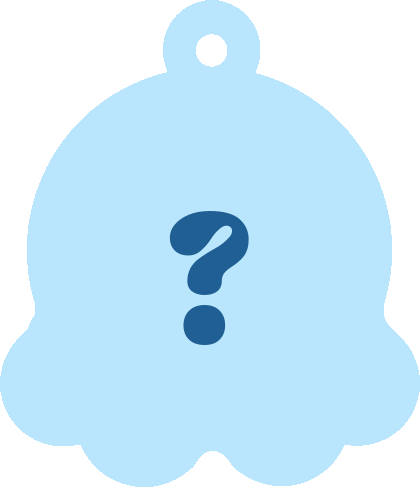
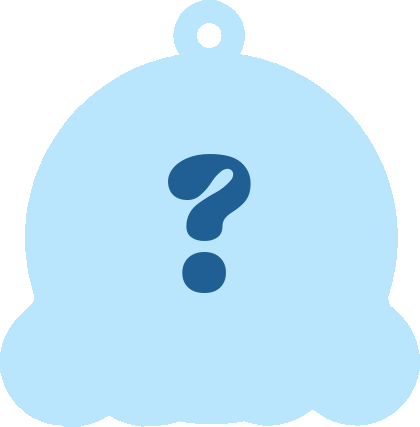
Silhouettes from the real STL (wrapper + Blender toy script)
Claude-Session: https://claude.ai/code/session_01AQMCNjGQ1RjZg5f4v5YFio

diff --git a/pulpos-mystery-box/diseno/envoltorio-plano.html b/pulpos-mystery-box/diseno/envoltorio-plano.html
@@ -14,4 +14,4 @@ body { font-family: Inter, sans-serif; background: #fff; }
 .foldv { border-left: .3mm dashed #8a8a8a; }
 .bubble { position: absolute; border-radius: 50%; border: .5mm solid rgba(255,255,255,.9); background: rgba(255,255,255,.35); }
 .pill { background: #BAE6FD; color: #1F5F93; -webkit-text-stroke: .5mm #FFFFFF; paint-order: stroke fill; font-family: var(--f); font-size: 3.6mm; padding: 1mm 3mm; border-radius: 3mm; }
-</style><div class="a" style="left:31mm;top:20mm;width:235mm;height:170mm;background:#FEF3C9"></div><div class="a" style="left:251mm;top:65mm;width:15mm;height:80mm;background:repeating-linear-gradient(135deg,#e7f6ff 0 2mm,#d3eefd 2mm 4mm)"></div><div class="a" style="left:31mm;top:65mm;width:110mm;height:80mm"><div class="a pill" style="left:4mm;top:71mm">SÉRIE 1</div><div class="a" style="left:0;top:2mm;width:110mm"><div class="title" style="font-size:21mm"><span style="color:#CD575B">Octo</span><span style="color:#8DD0F7">Mood</span></div></div><div class="a panel" style="left:30mm;top:27mm;width:50mm;height:50mm"><img src="pulpos/morado.png" alt="morado"></div></div><div class="a" style="left:141mm;top:65mm;width:110mm;height:80mm"><div class="a small" style="left:0;top:3mm;width:110mm;font-size:5.6mm">QUEL EST TON MOOD ?</div><div class="a panel mini" style="left:3.0mm;top:14mm;width:20mm;height:20mm"><img src="pulpos/rojo.png" alt="rojo"></div><div class="a panel mini" style="left:23.5mm;top:14mm;width:20mm;height:20mm"><img src="pulpos/sil_azul.png" alt="?"></div><div class="a panel mini" style="left:44.0mm;top:14mm;width:20mm;height:20mm"><img src="pulpos/sil_azul.png" alt="?"></div><div class="a panel mini" style="left:64.5mm;top:14mm;width:20mm;height:20mm"><img src="pulpos/sil_azul.png" alt="?"></div><div class="a panel mini" style="left:85.0mm;top:14mm;width:20mm;height:20mm"><img src="pulpos/sil_negra.png" alt="secreto"></div><div class="a panel" style="left:30mm;top:36mm;width:0;height:0"></div><div class="a small" style="left:6mm;top:40mm;width:98mm;font-size:4mm">1 PORTE-CLÉS MYSTÈRE PAR BOÎTE</div><div class="a small" style="left:6mm;top:49mm;width:98mm;font-size:3.6mm">5 COULEURS + 1 SECRET · SECRET : 1 CHANCE SUR 10</div><div class="a small" style="left:6mm;top:62mm;width:98mm;font-size:3.6mm">RenardLab3D · Metz</div><div class="a small" style="left:6mm;top:68mm;width:98mm;font-size:3.2mm">@renardlab3d · impression 3D · ~5 cm</div></div><div class="a fold" style="left:25mm;top:65mm;width:247mm"></div><div class="a fold" style="left:25mm;top:145mm;width:247mm"></div><div class="a foldv" style="left:141mm;top:65mm;height:80mm"></div><div class="a foldv" style="left:251mm;top:65mm;height:80mm"></div><div class="a note" style="left:31mm;top:12mm">Boceto A4 horizontal · envoltorio 235 × 170 mm · tubo de ≈ 7 cm de diámetro · - - - dobleces</div><div class="a note" style="left:251mm;top:147mm">pestaña de pegamento</div><div class="a note" style="left:33mm;top:192mm">Solapa superior 45 mm · cuerpo 80 mm · solapa inferior 45 mm · siluetas «?» = pulpos aún no revelados</div></div>
+</style><div class="a" style="left:31mm;top:20mm;width:235mm;height:170mm;background:#FEF3C9"></div><div class="a" style="left:251mm;top:65mm;width:15mm;height:80mm;background:repeating-linear-gradient(135deg,#e7f6ff 0 2mm,#d3eefd 2mm 4mm)"></div><div class="a" style="left:31mm;top:65mm;width:110mm;height:80mm"><div class="a pill" style="left:4mm;top:71mm">SÉRIE 1</div><div class="a" style="left:0;top:2mm;width:110mm"><div class="title" style="font-size:21mm"><span style="color:#CD575B">Octo</span><span style="color:#8DD0F7">Mood</span></div></div><div class="a panel" style="left:30mm;top:27mm;width:50mm;height:50mm"><img src="pulpos/morado.png" alt="morado"></div></div><div class="a" style="left:141mm;top:65mm;width:110mm;height:80mm"><div class="a small" style="left:0;top:3mm;width:110mm;font-size:5.6mm">QUEL EST TON MOOD ?</div><div class="a panel mini" style="left:3.0mm;top:14mm;width:20mm;height:20mm"><img src="pulpos/rojo.png" alt="rojo"></div><div class="a panel mini" style="left:23.5mm;top:14mm;width:20mm;height:20mm"><img src="pulpos/sil_azul.png" alt="?" style="transform:scale(.8);transform-origin:50% 90%"></div><div class="a panel mini" style="left:44.0mm;top:14mm;width:20mm;height:20mm"><img src="pulpos/sil_azul.png" alt="?" style="transform:scale(.8);transform-origin:50% 90%"></div><div class="a panel mini" style="left:64.5mm;top:14mm;width:20mm;height:20mm"><img src="pulpos/sil_azul.png" alt="?" style="transform:scale(.8);transform-origin:50% 90%"></div><div class="a panel mini" style="left:85.0mm;top:14mm;width:20mm;height:20mm"><img src="pulpos/sil_negra.png" alt="secreto" style="transform:scale(.8);transform-origin:50% 90%"></div><div class="a panel" style="left:30mm;top:36mm;width:0;height:0"></div><div class="a small" style="left:6mm;top:40mm;width:98mm;font-size:4mm">1 PORTE-CLÉS MYSTÈRE PAR BOÎTE</div><div class="a small" style="left:6mm;top:49mm;width:98mm;font-size:3.6mm">5 COULEURS + 1 SECRET · SECRET : 1 CHANCE SUR 10</div><div class="a small" style="left:6mm;top:62mm;width:98mm;font-size:3.6mm">RenardLab3D · Metz</div><div class="a small" style="left:6mm;top:68mm;width:98mm;font-size:3.2mm">@renardlab3d · impression 3D · ~5 cm</div></div><div class="a fold" style="left:25mm;top:65mm;width:247mm"></div><div class="a fold" style="left:25mm;top:145mm;width:247mm"></div><div class="a foldv" style="left:141mm;top:65mm;height:80mm"></div><div class="a foldv" style="left:251mm;top:65mm;height:80mm"></div><div class="a note" style="left:31mm;top:12mm">Boceto A4 horizontal · envoltorio 235 × 170 mm · tubo de ≈ 7 cm de diámetro · - - - dobleces</div><div class="a note" style="left:251mm;top:147mm">pestaña de pegamento</div><div class="a note" style="left:33mm;top:192mm">Solapa superior 45 mm · cuerpo 80 mm · solapa inferior 45 mm · siluetas «?» = pulpos aún no revelados</div></div>

diff --git a/reel-3d/tools/escena_playa.py b/reel-3d/tools/escena_playa.py
@@ -300,35 +300,34 @@ for o in bpy.data.objects:
         q = world_to_camera_view(scene, cam, o.location); print('estrella', o.name, tuple(round(v, 2) for v in o.location), 'px', round(q.x * W), round((1 - q.y) * H) - PAN)
 
 # ---------------------------------------------------------------- siluetas 3D (misma forma que el envoltorio)
-# ---- pulpo de revolución hecho de «pelotas» que se funden (metaballs), como el modelo original
-# coordenadas en píxeles del recorte del render real (ancho 1216, alto 1409): (x, z desde abajo, profundidad, radio de superficie)
-_MBW, _MBH = 1304.0, 1409.0
-_R8, _r8 = 516.0, 178.0
-_BALLS = [(652, 687, 0, 530)]                                   # cabeza (x, z, profundidad, radio)
-for _k in range(8):                                               # 8 pelotas-tentáculo en anillo bajo la cabeza
-    _a = math.radians(22.5 + 45 * _k)
-    _BALLS.append((652 + _R8 * math.cos(_a), _r8, -_R8 * math.sin(_a), _r8))
+# ---- pulpo real (STL de Avril): cuerpo + anilla en color plano, con «?» sobre la cara
+bpy.ops.wm.stl_import(filepath=os.path.join(os.path.dirname(os.path.abspath(__file__)), '..', 'assets', 'modelo', 'OctoSmoot.stl'))
+_raw = bpy.context.selected_objects[0]; bpy.context.view_layer.objects.active = _raw
+bpy.ops.object.mode_set(mode='EDIT'); bpy.ops.mesh.separate(type='LOOSE'); bpy.ops.object.mode_set(mode='OBJECT')
+_TPL = []
+for _o in [o for o in bpy.data.objects if o.type == 'MESH' and o.name.startswith('OctoSmoot')]:
+    _v = np.array([list(p_.co) for p_ in _o.data.vertices]); _c = (_v.min(0) + _v.max(0)) / 2
+    if len(_v) > 5000 or _c[2] > 2.0:                    # cuerpo y anilla (los ojos y la boca no van en la silueta)
+        for p_ in _o.data.polygons: p_.use_smooth = True
+        _TPL.append(_o.data)
+    _o.hide_render = True; _o.hide_viewport = True
+_STL_W, _STL_ZMIN, _STL_ZMAX = 2.64, -0.084, 2.6
 def silueta(name, x_px, base_final_y, w_px, color, qcolor):
-    x, d = place(x_px, base_final_y); Wm = px_to_m(w_px, d); s = Wm / _MBW
+    x, d = place(x_px, base_final_y); Wm = px_to_m(w_px, d); K = Wm / _STL_W
     gz = ground_h(x, d)
-    mb = bpy.data.metaballs.new(name + '_mb'); mb.threshold = 0.6; mb.resolution = Wm / 140; mb.render_resolution = Wm / 140
-    for bx, bz, by, br in _BALLS:
-        e = mb.elements.new(); e.co = ((bx - _MBW / 2) * s, by * s, bz * s); e.radius = br * s / 0.574 * 0.93; e.stiffness = 2.0
-    ob = bpy.data.objects.new(name, mb); scene.collection.objects.link(ob); ob.location = (x, d, gz)
-    ob.data.materials.append(toy(name + '_m', color))
-    # anilla (toro) arriba
-    bpy.ops.mesh.primitive_torus_add(major_radius=93 * s, minor_radius=46 * s, major_segments=64, minor_segments=32, location=(x, d, gz + 1303 * s), rotation=(math.radians(90), 0, 0))
-    ring = bpy.context.object; ring.name = name + '_anilla'; ring.data.materials.append(toy(name + '_a', color))
-    for p_ in ring.data.polygons: p_.use_smooth = True
-    ring.parent = ob; ring.matrix_parent_inverse = ob.matrix_world.inverted()
+    root = bpy.data.objects.new(name, None); scene.collection.objects.link(root)
+    root.location = (x, d, gz - _STL_ZMIN * K); root.rotation_euler = (0, 0, math.pi); root.scale = (K, K, K)   # de cara a la cámara
+    mat = toy(name + '_m', color); parts = [root]
+    for k, me in enumerate(_TPL):
+        o = bpy.data.objects.new(f'{name}_{k}', me); scene.collection.objects.link(o); o.parent = root; o.data.materials.clear(); o.data.materials.append(mat); parts.append(o)
     cu = bpy.data.curves.new(name + '_q', 'FONT'); cu.body = '?'; cu.size = 0.62 * Wm; cu.extrude = 0.02 * Wm; cu.bevel_depth = 0.006 * Wm
     cu.align_x = 'CENTER'; cu.align_y = 'CENTER'
     try: cu.font = bpy.data.fonts.load(FONT)
     except Exception as ex: print('fuente:', ex)
     q = bpy.data.objects.new(name + '_q', cu); scene.collection.objects.link(q)
-    q.rotation_euler = (math.radians(90), 0, 0); q.location = (x, d - 530 * s * 0.985, gz + 700 * s)
-    q.parent = ob; q.matrix_parent_inverse = ob.matrix_world.inverted(); q.data.materials.append(toy(name + '_qm', qcolor))
-    return ob, [ob, ring, q], Wm
+    q.rotation_euler = (math.radians(90), 0, 0); q.location = (x, d - 1.32 * K, gz + (1.25 - _STL_ZMIN) * K)
+    q.parent = None; q.data.materials.append(toy(name + '_qm', qcolor)); parts.append(q)
+    return root, parts, Wm
 
 SIL = {
     's1': (130, 1560, 140, YEL, DBLUE), 's2': (275, 1450, 122, YEL, DBLUE),
@@ -383,7 +382,7 @@ if ONLY in ('all', 'capas'):
                     for dz in (0, 0.5):
                         pts.append(Vector((cx + dx * Wm, cy + dy * Wm, ground_h(cx, cy) + dz * Wm)))
         else:
-            root, parts, Wm = objs[k]; cx, cy = root.location.x, root.location.y
+            root, parts, Wm = objs[k]; cx, cy = root.location.x, root.location.y; root.location.z = ground_h(cx, cy) if False else root.location.z
             for dx in (-0.7, 1.9):
                 for dy in (-0.5, 2.4):
                     for dz in (0, 1.35):

diff --git a/pulpos-mystery-box/diseno/gen_envoltorio.py b/pulpos-mystery-box/diseno/gen_envoltorio.py
@@ -77,8 +77,8 @@ YELLOW = octo("#FFF08A", "#FFCE2E", "#D69B00", "cool")
 BLUE_O = octo("#B8E6FF", "#5EB6F2", "#2C7DBB", "sad")
 GREEN  = octo("#C9F59A", "#7FD05A", "#3C9A33", "sick")
 RAIN   = octo("", "", "", "wave", rainbow=True)
-SIL    = '<img src="pulpos/sil_negra.png" alt="secreto">'   # silueta real del pulpo (negra) con «?» amarillo
-SILQ   = '<img src="pulpos/sil_azul.png" alt="?">'          # aún no revelado: silueta real azul clara con «?»
+SIL    = '<img src="pulpos/sil_negra.png" alt="secreto" style="transform:scale(.8);transform-origin:50% 90%">'   # silueta real del pulpo (negra) con «?» amarillo
+SILQ   = '<img src="pulpos/sil_azul.png" alt="?" style="transform:scale(.8);transform-origin:50% 90%">'          # aún no revelado: silueta real azul clara con «?»
 
 def pulpo(name, vector):
     """Usa pulpos/<name>.png (render real, fondo transparente) si existe; si no, el dibujo provisional."""
